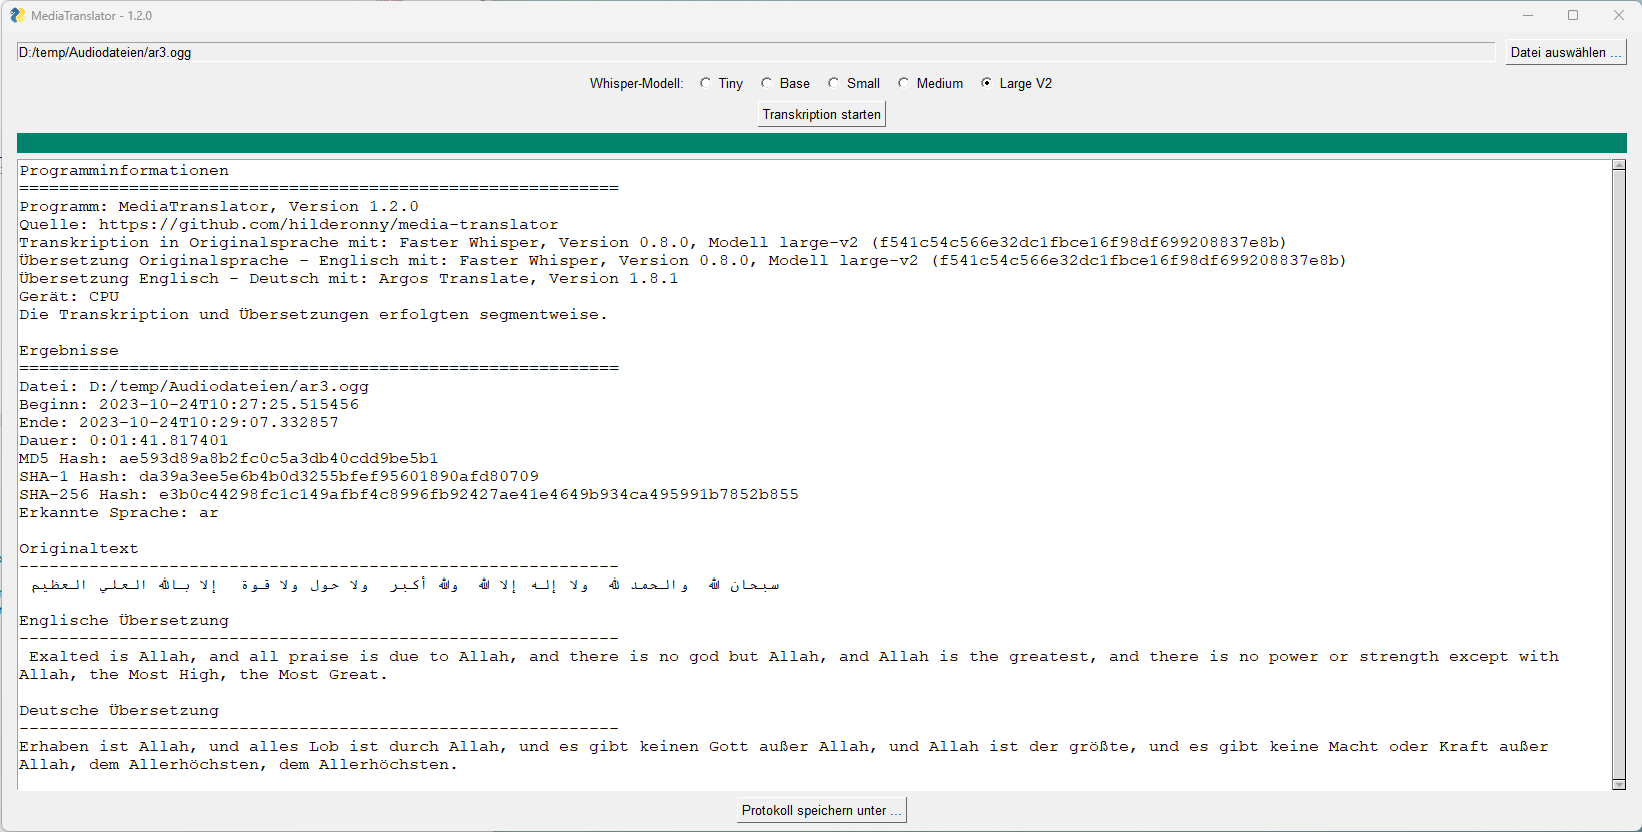
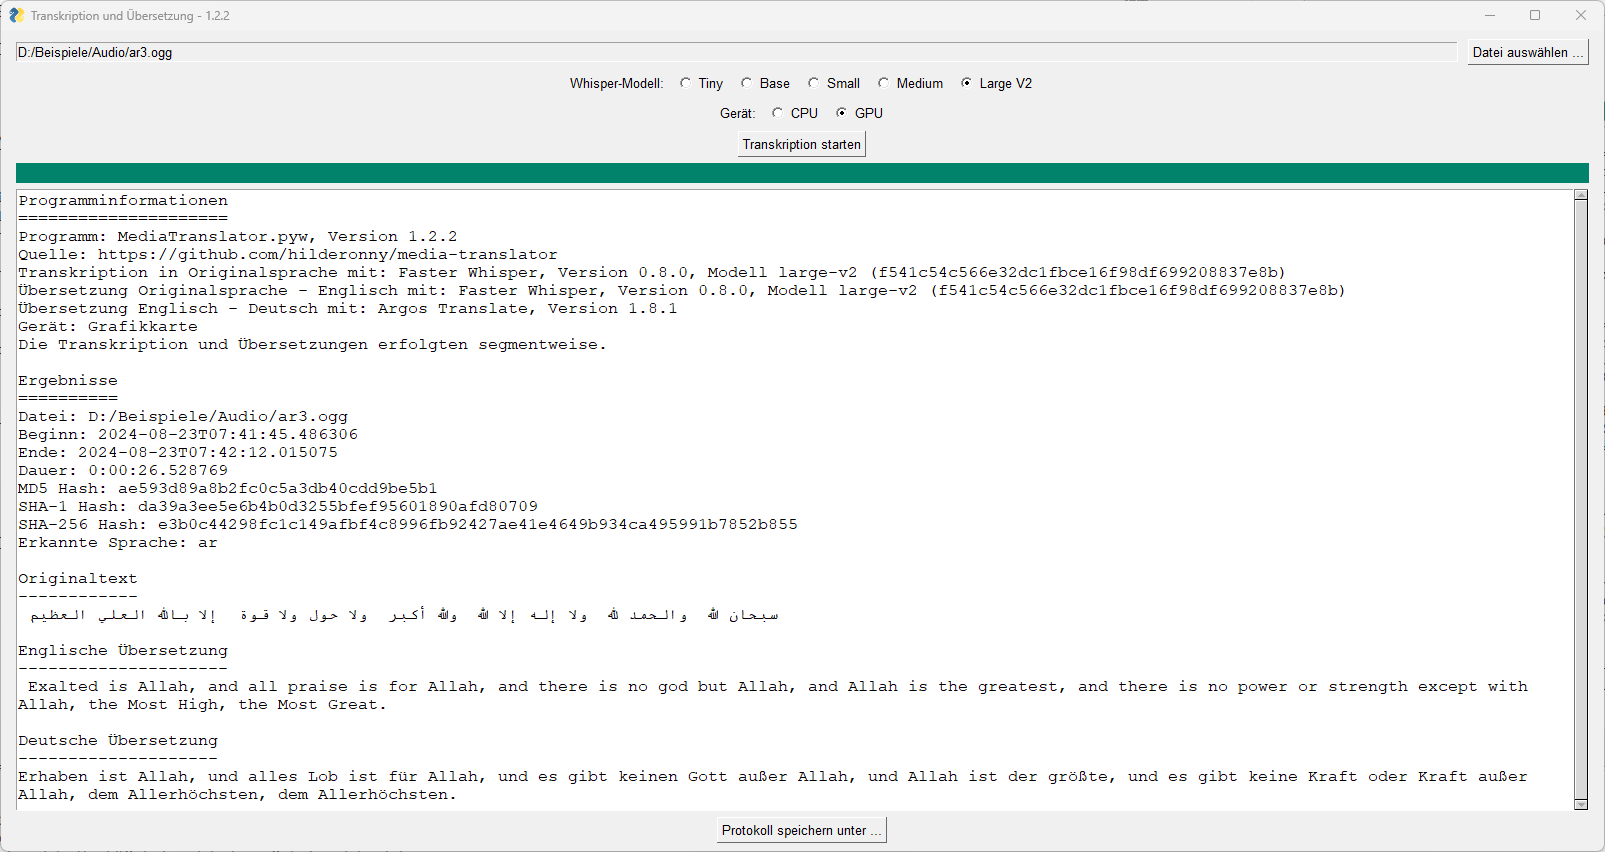
Version 1.2.2 implemented

diff --git a/README.md b/README.md
@@ -10,7 +10,14 @@ Mit diesem Tool kann man Audio- und Videodateien unter Windows transkribieren un
 
 ## Benutzung
 
-Einfach die neueste ZIP-Datei von [hier](https://github.com/hilderonny/media-translator/releases) herunterladen, entpacken und die Datei **MediaTranslator.exe** ausführen. Das Programm benötigt keine Installation.
+Unter [Releases](https://github.com/hilderonny/media-translator/releases) sind die aktuellsten Versionen des Programms zu finden. Laden Sie die Version herunter, die Ihren Ansprüchen genügt:
+
+|Dateiname|Beschreibung|
+|---|---|
+|`MediaTranslator_1.2.2.zip`|Inklusive CUDA Bibliotheken und GPU-Funktion|
+|`MediaTranslator_1.2.2_no_cudnn.zip`|Ohne CUDA Bibliotheken und ohne GPU-Funktion|
+
+ herunterladen, entpacken und die Datei **MediaTranslator.exe** ausführen. Das Programm benötigt keine Installation.
 
 **Achtung:** Beim ersten Programmstart sowie beim Auswählen der Whisper-Modelle müssen ggf. KI-Modelle aus dem Internet geladen werden (bis zu 3 GB). Bei allen weiteren Ausführungen ist keine Internetverbindung mehr notwendig. Die KI-Modelle werdenn dann aus dem Unterverzeichnis `data` geladen. Für eine vollständige Offline-Version führen Sie am Besten testhalber kurze Transkriptionen mit jedem Modell bei bestehender Internetverbindung durch.
 
@@ -63,7 +70,15 @@ pyinstaller -w MediaTranslator.pyw
 
 Dabei wird ein Verzeichnis `dist/MediaTranslator` erstellt, in dem die EXE-Datei abgelegt wird. Diese Datei ist dann portabel ausführbar, sofern alle anderen Dateien und Unterverzeichnisse vorhanden sind.
 
-In dieses Verzeichnis muss auch das `data` Verzeichnis mit den KI-Modellen kopiert werden, also nach `dist/data`.
+In dieses Verzeichnis muss auch das `data` Verzeichnis mit den KI-Modellen kopiert werden, also nach `dist/MediaTranslator/data`.
+
+Für die Verwendung der GPU müssen folgende Dateien in das Verzeichnis `dist/MediaTranslator/_internal_ctranslate2` kopiert werden:
+
+- `cudnn_ops_infer64_8.dll`
+- `zlibwapi.dll`
+- `cudnn_cnn_infer64_8.dll`
+- `cublasLt64_11.dll`
+- `cublas64_11.dll`
 
 ## KI Modelle herunterladen
 

diff --git a/CHANGELOG.md b/CHANGELOG.md
@@ -1,5 +1,8 @@
 # Änderungshistorie
 
+## 1.2.2
+- Verwendung von Grafikkarten implementiert
+
 ## 1.2.1
 - Fehler bei Transkription englischer und deutscher Quelldateien behoben
 
